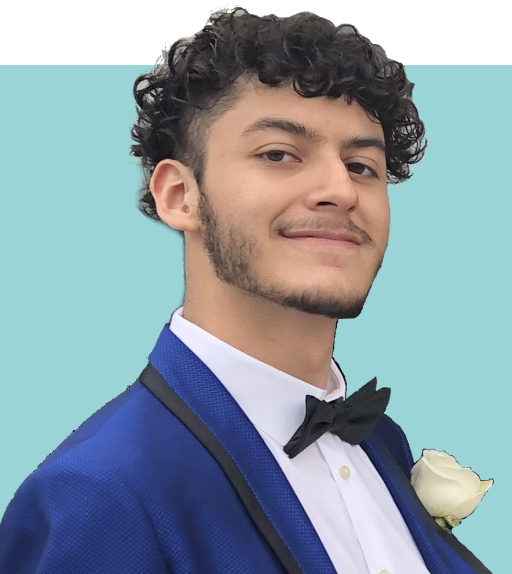
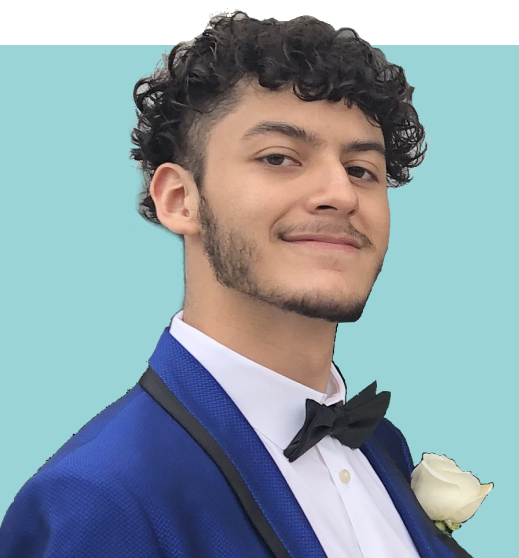
updating pic aaron pic + marlen email

diff --git a/executive.html b/executive.html
@@ -53,10 +53,12 @@
     }
 
 /* lorena's pic */
+/* aaron's pic too */
 
-    .lorenap{
+    .spacingp{
       padding-top: 3%;
     }
+
 
 
     /* Media Query for phones */
@@ -186,7 +188,7 @@
     <br>
     <h3 class="gridINFO">Vice President</h3>
     <h3 class="gridINFO">Computer Science</h3>
-    <h3 class="gridINFO">TBD</h3>
+    <h3 class="gridINFO">Vp.shape.iit@gmail.com</h3>
   </div>
 
 
@@ -201,7 +203,7 @@
     <br>
     <h3 class="gridINFO">Secretary</h3>
     <h3 class="gridINFO">Computer Science</h3>
-    <h3 class="gridINFO">Email</h3>
+    <h3 class="gridINFO">TBD</h3>
   </div>
 
 
@@ -240,7 +242,7 @@
   <div class="image-container">
     <h2 class="gridName"> Lorena Ramirez </h2>
   
-    <img class = "exec-img lorenap" src="assets/images/lorena.png" alt="Lorena Ramirez">
+    <img class = "exec-img spacingp" src="assets/images/lorena.png" alt="Lorena Ramirez">
       
       <!-- Position, Major, Email -->
       <br>
@@ -256,7 +258,7 @@
   <div class="image-container">
   
   <h2 class="gridName"> Aaron Pardo </h2>
-  <img class = "exec-img" src="assets/images/aaron.png" alt="Aaron Pardo">
+  <img class = "exec-img spacingp" src="assets/images/aaron.png" alt="Aaron Pardo">
   
     <!-- Position, Major, Email -->
     <br>
